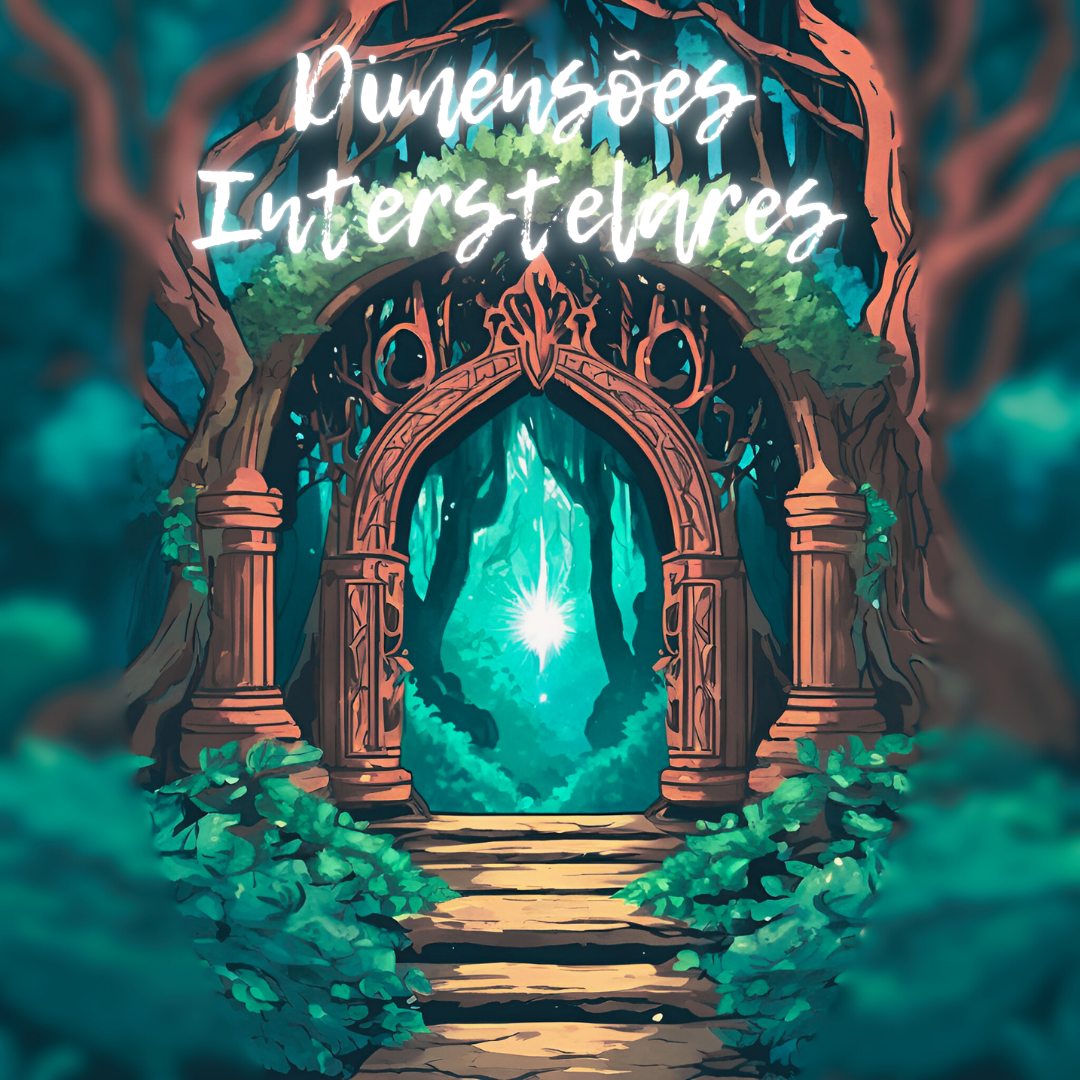
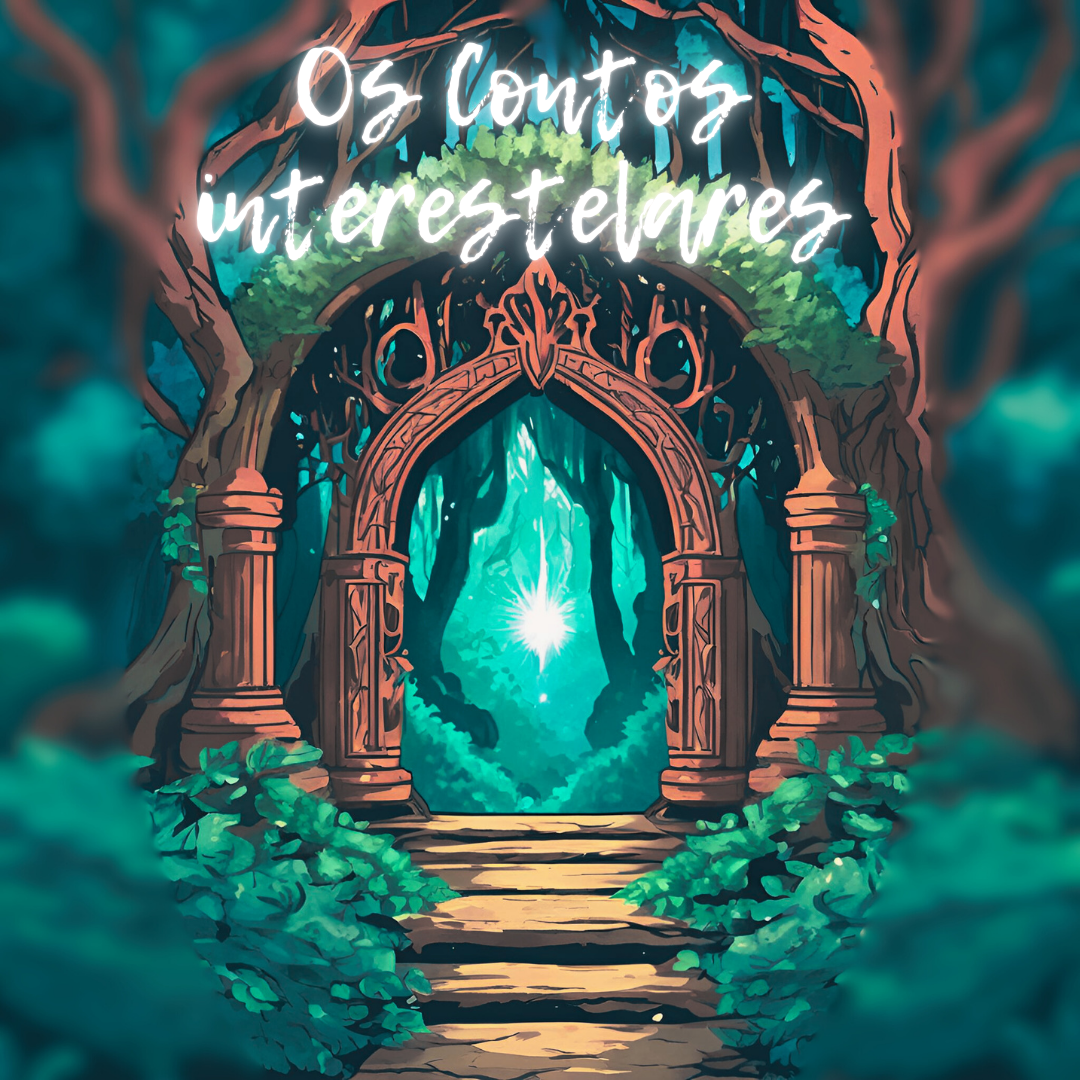
att

Changed region(s): [[0.1528, 0.0306, 0.7944, 0.2444]]

diff --git a/historias/Jornada-Arthur/pag1.html b/historias/Jornada-Arthur/pag1.html
@@ -12,7 +12,7 @@
         <div class="teste2"></div>
     </div>
         <div class="historia">
-            <h1 class="titulo1">Dimensões Interstelares</h1>
+            <h1 class="titulo1">Os Contos interestelares</h1>
             <div class="texto1">
                 <h1 class="titulo1">A Jornada de Arthur</h1>
                 <h2>Capítulo 1</h2>
@@ -57,6 +57,117 @@
                     <br>por Miranda, uma mulher bondosa de um pequeno
                     <br>vilarejo chamado Lumina. Ela o levou para seu orfanato
                     <br>e o criou como se fosse seu próprio filho.
+                </p>
+                <br>
+                <h2>Capítulo 3</h2>
+                <h3>A Infância em Lumina</h3>
+                <p>
+                    Arthur cresceu em Lumina, cercado por seus amigos Marcs,
+                    <br>Victor e Verônica. Embora tivesse uma vida simples no orfanato,
+                    <br>Arthur sempre sentiu um vazio dentro de si, uma sensação
+                    <br>de que algo faltava. Miranda lhe contou sobre seus pais, mas as
+                    <br>lembranças deles eram poucas e nebulosas, mais como sonhos distantes.
+                </p>
+                <p>
+                    Mesmo assim, Arthur sempre se sentiu atraído pelas histórias
+                    <br>de heróis e aventureiros. Ele e seus amigos passavam horas sonhando
+                    <br>em se tornar aventureiros, explorar dungeons e proteger
+                    <br>o reino, assim como seus pais fizeram.
+                </p>
+                <br>
+                <h2>Capítulo 4</h2>
+                <h3>O Despertar de um Herói</h3>
+                <p>
+                    Aos 16 anos, Arthur e seus amigos decidiram explorar uma pequena
+                    <br>dungeon que apareceu nos arredores de Lumina. Apesar dos avisos de
+                    <br>Miranda, eles se aventuraram na escuridão, atraídos pela
+                    <br>promessa de aventura e pelo desejo de provar a si mesmos.
+                </p>
+                <p>
+                    Durante a exploração, eles foram emboscados por um grupo de monstros.
+                    <br>Em um momento de desespero, Arthur sentiu algo despertar dentro de si.
+                    <br>Ele percebeu que possuía um poder único: a habilidade de absorver
+                    <br>as habilidades dos monstros que derrotava. Com esse poder, Arthur conseguiu
+                    <br>salvar seus amigos e escapar da dungeon.
+                </p>
+                <p>
+                    A notícia sobre o poder de Arthur logo se espalhou, chegando aos
+                    <br>ouvidos de Merlin, o diretor da Academia Arcana, a escola mais prestigiada
+                    <br>de Eldoria. Merlin, sabendo do legado dos pais de Arthur, convidou
+                    <br>o jovem para treinar na academia.
+                </p>
+                <h2>Capítulo 5</h2>
+                <h3>A Academia Arcana</h3>
+                <p>
+                    Na Academia Arcana, Arthur começou a treinar intensamente. Ele
+                    <br>aprendeu a controlar e expandir seu poder, enquanto fortalecia seus laços
+                    <br>com Marcs, Victor e Verônica, que também se juntaram a ele
+                    <br>na academia. Juntos, eles formaram uma equipe imbatível, enfrentando dungeons
+                    <br>cada vez mais perigosas
+                </p>
+                <p>
+                    Arthur também começou a descobrir mais sobre seus pais e o que eles
+                    <br>fizeram para proteger Eldoria. Ele aprendeu que o poder que ele possuía era,
+                    <br>na verdade, um presente final de seus pais, uma manifestação
+                    <br>de sua força e sacrifício.
+                </p>
+                <p>
+                    Enquanto Arthur crescia em poder, Eskar, que havia sobrevivido ao
+                    <br>ataque de Henrick e Malenia, planejava sua vingança nas sombras. Ele estava
+                    <br>determinado a destruir Eldoria e acabar com a linhagem de heróis
+                    <br>que o havia derrotado no passado.
+                </p>
+                <h2>Capítulo 6</h2>
+                <h3>A Ascensão de Eskar</h3>
+                <p>
+                    Eskar ressurgiu com uma força terrível, abrindo várias dungeons ao
+                    <br>redor do reino e liberando monstros por toda Eldoria. Ele formou um exército
+                    <br>de criaturas sombrias, determinado a conquistar o reino e subjugar
+                    <br>o Rei Leônidas.
+                </p>
+                <p>
+                    Arthur, agora reconhecido como um dos mais poderosos guerreiros do
+                    <br>reino, foi chamado pelo rei para liderar a resistência. Com seus amigos ao seu
+                    <br>lado, ele enfrentou hordas de monstros, limpando dungeons e
+                    <br>salvando cidades inteiras do colapso.
+                </p>
+                <p>
+                    A medida que a guerra se intensificava, Arthur foi confrontado por
+                    <br>Eskar. O mago revelou que havia estado por trás da morte de Henrick e Malenia
+                    <br>e que estava determinado a acabar com a linhagem deles,
+                    <br>começando por Arthur.
+                </p>
+                <h2>Capítulo 7</h2>
+                <h3>A Batalha Final</h3>
+                <p>
+                    A batalha final entre Arthur e Eskar aconteceu no local onde Henrick e
+                    <br>Malenia haviam morrido. Eskar usou todos os truques e magias sombrias em seu
+                    <br>arsenal, mas Arthur, alimentado pelo poder de seus pais e pela força
+                    <br>dos laços que tinha com seus amigos, foi capaz de superar o vilão.
+                </p>
+                <p>
+                    Com um golpe final, Arthur derrotou Eskar, destruindo sua essência maligna
+                    <br>e selando todas as dungeons que ele havia aberto. A paz foi finalmente restaurada
+                    <br>em Eldoria, e Arthur se tornou um herói celebrado em todo o reino.
+                </p>
+                <h2>Capítulo 8</h2>
+                <h3>O Novo Amanhecer</h3>
+                <p>
+                    Após a vitória, Arthur foi homenageado pelo Rei Leônidas, recebendo o título
+                    <br>de Cavaleiro Supremo. No entanto, ele escolheu se retirar da vida de combate, preferindo
+                    <br>uma existência mais tranquila ao lado de seus amigos e de Verônica, que
+                    <br>havia se tornado sua noiva.
+                </p>
+                <p>
+                    Arthur encontrou a paz e a felicidade que seus pais tanto desejavam para ele.
+                    <br>Embora Henrick e Malenia não estivessem mais presentes fisicamente, Arthur sentia que eles
+                    <br>sempre estavam ao seu lado, guiando-o e protegendo-o.
+                </p>
+                <p>
+                    Ele viveu o resto de seus dias em paz, com Verônica e
+                    <br>seus amigos ao seu lado, sempre prontos para
+                    <br>defender Eldoria, mas agora com a certeza de
+                    <br>que o reino estava seguro.
                 </p>
             </div>
         </div>

diff --git a/cssf/style.css b/cssf/style.css
@@ -18,7 +18,7 @@
 {
     background-image: url("../imagens/fundo/arvore\ 700.png");
     background-size: 100%;
-    background-repeat: no-repeat;
+    background-repeat: repeat;
     background-color: rgba(0, 0, 0, 0.644);
     background-blend-mode: multiply;
     position: relative;
@@ -33,12 +33,15 @@
 }
 .quadradosum
 {
+    align-items: center;
+    justify-content: center;
     position: absolute;
-    width: 1000px;
-    height: 580px;
     background-color: #EB876B;
+    height: 450px;
+    width: 1000px;
     border-radius: 15px;
-    top: 3%;
+    box-shadow: #EB876B 0 0 1.9em;
+    top: 10%;
     left: 13%;
 }
 .base3
@@ -70,12 +73,19 @@
     margin: 10px;
     color: #F9F5F2;
 }
+.alinharsum
+{
+    text-align: center;
+    position: relative;
+}
 .texto4
 {
-    position: relative;
     color: #F9F5F2;
-    text-align: center;
     text-decoration: none;
+}
+.texto4:hover
+{
+    text-decoration: underline;
 }
 .imagem
 {
@@ -85,16 +95,14 @@
     border: 1px solid #F9F5F2;
     box-shadow: #F9F5F2 0 0 1.1em;
 }
+.imagem2
+{
+    position: absolute;
+    transform: rotate(180deg);
+    top: 84%;
+}
 .palavra
 {
     color: white ;
     text-shadow: #F9F5F2 0 0 0.3em;
-}
-.pdf:hover
-{
-    border-bottom: 2px solid #F9F5F2;
-}
-.net:hover
-{
-    border-bottom: 2px solid #F9F5F2;
 }

diff --git a/principal.html b/principal.html
@@ -11,12 +11,12 @@
     <table class="mesa1">
         <tr>
             <td>
-                <img class="imagem" src="imagens/Capa2.png" alt="Capa">
+                <img class="imagem" src="imagens/Capa800.png" alt="Capa">
             </td>
             <td>
                 <div class="base3">
                     <div class="titulo1">
-                        <h1>Dimensões Interstelares</h1>
+                        <h1>Os Contos interestelares</h1>
                     </div>
                     <div class="texto2">
                         <p>
@@ -37,8 +37,8 @@
         Lorem ipsum, dolor sit amet consectetur adipisicing elit. Saepe quia quaerat libero provident nihil cumque cupiditate
     </p>
     <div class="livros">
-        <a href=""><img class="pdf" src="imagens/livro2.png" alt="bot pdf" width="100px"></a>
-        <a href="historias/sumary.html"><img class="net" src="imagens/livro2.png" alt="bot net" width="100px"></a>
+        <a href=""><img class="pdf" src="imagens/pdf_70x70_sem_glow.png" alt="bot pdf" width="200px"></a>
+        <a href="historias/sumary.html"><img class="net" src="imagens/wifi_70x70_sem_glow.png" alt="bot net" width="200px"></a>
     </div>
 </body>
 </html>

diff --git a/historias/sumary.html b/historias/sumary.html
@@ -1,5 +1,5 @@
 <!DOCTYPE html>
-<html lang="en">
+<html lang="pt-br">
 <head>
     <meta charset="UTF-8">
     <meta name="viewport" content="width=device-width, initial-scale=1.0">
@@ -9,14 +9,18 @@
 </head>
 <body class="fundosum">
     <div class="quadradosum">
-        <div class="texto4">
-            <a href="Jornada-Arthur/pag1.html" class="texto4">
-                1- A Jornada de Arthur
-            </a>
+        <h2 class="titulo1">Sumario</h2>
+        <div class="alinharsum">
             <p>
-                2- Esquisitolandia
+                <a href="Jornada-Arthur/pag1.html" class="texto4">1- A Jornada de Arthur</a>
+            </p>
+            <p>
+                <a class="texto4">2- Esquisitolandia</a>
             </p>
         </div>
+    </div>
+    <div>
+        <a href="../principal.html"><img class="imagem2" src="../imagens/voltar.png" alt="" width="90px"></a>
     </div>
 </body>
 </html>
